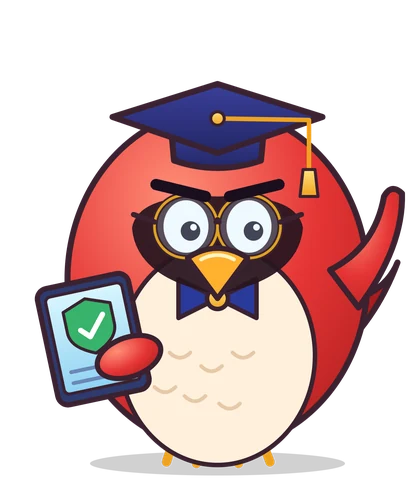
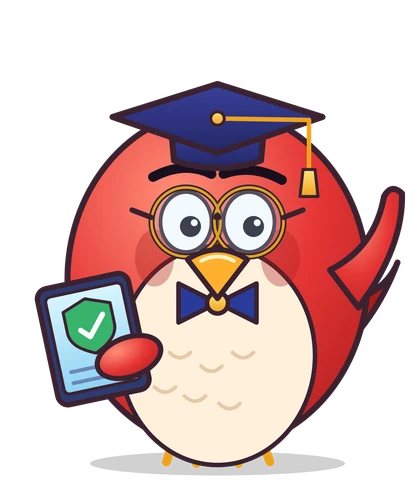
Cyber Squad: 7 original birds, a new one after every shot, waiting birds on the grass; friendlier professor coach

Changed region(s): [[0.3095, 0.3438, 0.7429, 0.6875]]

diff --git a/index.html b/index.html
@@ -434,7 +434,7 @@ const DemoUI = {
     pages: [
         { t: 'Welcome to Byte Valley!', x: "I'm Coach Cipher, head of village security. Sneaky Phishers keep fishing for our passwords, and last night they went one step further." },
         { t: 'The Stolen Data Eggs', x: "They grabbed our 9 golden data eggs and hid them up high in the valley. Each egg locks away one security lesson. Crack them all open to bring our data home!" },
-        { t: 'Your mission', x: "Pull the slingshot back and fire your red bird at an egg. Then answer the question. Every right answer earns 10 marks. Score 72 or more and you become a Cyber Champion!" }
+        { t: 'Your mission', x: "Pull the slingshot back and fire a bird from the Cyber Squad at an egg, one bird per shot. Then answer the question. Every right answer earns 10 marks. Score 72 or more and you become a Cyber Champion!" }
     ],
     ip: 0, itimer: null, typing: false,
     introInit: function() {
@@ -576,8 +576,16 @@ const PARTS_DB = [
     { name: "Tailgating", q: "A stranger follows you closely through a secure door. What should you do?", o: ["Hold the door, it's polite", "Politely ask who they are and send them to reception", "Ignore them", "Lend them your badge for a minute"], a: 1, w: "Everyone badges in for themselves. Politely redirect visitors to reception.", ic: ["door", "idQ", "eyeOff", "badge"], file: "Images/egg.webp" }
 ];
 
+const BIRD_KEYS = ['bird1','bird2','bird3','bird4','bird5','bird6','bird7'];
+const BIRD_NAMES = ['Firewall','Patch','Zip','Crypto','Cloud','Packet','Pop'];
 const ASSETS = {
-    'bomb': 'Images/bird.webp',
+    'bird1': 'Images/birds/bird1.webp',
+    'bird2': 'Images/birds/bird2.webp',
+    'bird3': 'Images/birds/bird3.webp',
+    'bird4': 'Images/birds/bird4.webp',
+    'bird5': 'Images/birds/bird5.webp',
+    'bird6': 'Images/birds/bird6.webp',
+    'bird7': 'Images/birds/bird7.webp',
     'box': 'Images/egg.webp',
     'villain': 'Images/phisher.webp',
     'slingshot': 'Images/slingshot.webp'
@@ -763,6 +771,7 @@ const Game = {
     isFailing: false,
     touchingCounter: 0, // Used for internal counting to calculate boolean
     tick: 0,
+    birdCount: 0,
 
     mouse: null,
     mouseConstraint: null,
@@ -1261,6 +1270,7 @@ const Game = {
                 throw new Error('Failed to create projectile');
             }
             
+            { const bi = (this.birdCount || 0) % BIRD_KEYS.length; this.projectile.birdKey = BIRD_KEYS[bi]; this.projectile.birdName = BIRD_NAMES[bi]; this.birdCount = (this.birdCount || 0) + 1; }
             this.slingshot = Constraint.create({
                 pointA: slingPoint || this.currentAnchor || this.anchorBase, 
                 bodyB: this.projectile, 
@@ -1792,6 +1802,7 @@ const Game = {
             ctx.clearRect(0, 0, this.width, this.height);
             
             try {
+                this.drawBirdQueue();
                 this.drawSling(false);
                 
                 if (this.world && Composite.allBodies) {
@@ -1818,6 +1829,7 @@ const Game = {
                 // Show trajectory only while actively dragging the bomb
                 if(isDraggingBomb) this.drawTraj();
                 this.drawSling(true);
+                if (!isDraggingBomb) this.drawBirdName();
             } catch (err) {
                 console.error('Error in drawing loop:', err);
             }
@@ -1884,7 +1896,7 @@ const Game = {
             const r = b.circleRadius;
             if (!r || isNaN(r) || r <= 0) return;
             const perspective = this.getPerspectiveScale(b.position.y);
-            const img = Resources.images['bomb'];
+            const img = Resources.images[b.birdKey || 'bird1'];
             ctx.save();
             ctx.translate(b.position.x, b.position.y);
             ctx.scale(perspective, perspective);
@@ -2020,6 +2032,36 @@ const Game = {
         ctx.bezierCurveTo(c1.x, c1.y, c2.x, c2.y, end.x, end.y);
         ctx.stroke();
         ctx.restore();
+    },
+    drawBirdQueue: function() {
+        try {
+            const ctx = this.ctx; if (!ctx || this.GameCompleted) return;
+            const s = this.scaleFactor || 1;
+            const groundY = this.height * this.GROUND_Y_RATIO;
+            const ax = this.anchorBase.x, step = 46 * s;
+            const n = Math.max(0, Math.min(3, Math.floor((ax - 26 * s) / step)));
+            const base = this.birdCount || 0, t = performance.now() * 0.001;
+            for (let i = 0; i < n; i++) {
+                const img = Resources.images[BIRD_KEYS[(base + i) % BIRD_KEYS.length]];
+                if (!img || !img.complete || !img.naturalWidth) continue;
+                const d = 44 * s, hop = Math.pow(Math.max(0, Math.sin(t * 3 + i * 1.7)), 10) * 9 * s;
+                ctx.drawImage(img, ax - 58 * s - i * step - d / 2, groundY - d + 4 * s - hop, d, d);
+            }
+        } catch (err) { console.warn('Error drawing bird queue:', err); }
+    },
+    drawBirdName: function() {
+        try {
+            const ctx = this.ctx; if (!ctx || !this.projectile || !this.slingshot || !this.slingshot.bodyB) return;
+            const s = this.scaleFactor || 1, r = this.projectile.circleRadius || 30;
+            const name = (this.projectile.birdName || '').toUpperCase(); if (!name) return;
+            ctx.save();
+            ctx.font = '900 ' + Math.round(15 * Math.max(s, 0.8)) + "px Nunito, system-ui, sans-serif";
+            ctx.textAlign = 'center'; ctx.lineJoin = 'round';
+            ctx.lineWidth = 5 * s; ctx.strokeStyle = 'rgba(42,26,94,.9)'; ctx.fillStyle = '#fff';
+            const x = this.projectile.position.x, y = this.projectile.position.y - r * 1.55;
+            ctx.strokeText(name, x, y); ctx.fillText(name, x, y);
+            ctx.restore();
+        } catch (err) { console.warn('Error drawing bird name:', err); }
     },
     drawSling: function(isFront) {
         const ctx=this.ctx; const s=this.scaleFactor; const sx=this.currentAnchor.x; const sy=this.currentAnchor.y;

diff --git a/README.md b/README.md
@@ -1,6 +1,6 @@
 # Cyber Squad Slingshot Quiz (sample demo)
 
-A small browser game by keenmind designs. Coach Cipher briefs you on a cybersecurity mission, then you fire a red bird from a slingshot at 9 golden data eggs. Each egg opens one security question with 4 answers. Right answers score 10 marks, wrong answers reveal the correct one.
+A small browser game by keenmind designs. Coach Cipher briefs you on a cybersecurity mission, then you fire the Cyber Squad (7 original birds, a new one after every shot) from a slingshot at 9 golden data eggs. Each egg opens one security question with 4 answers. Right answers score 10 marks, wrong answers reveal the correct one.
 
 All artwork is original vector art made for this demo. Built with HTML5 canvas, Matter.js and canvas-confetti. No build step. Sample demo, not client work.
 
